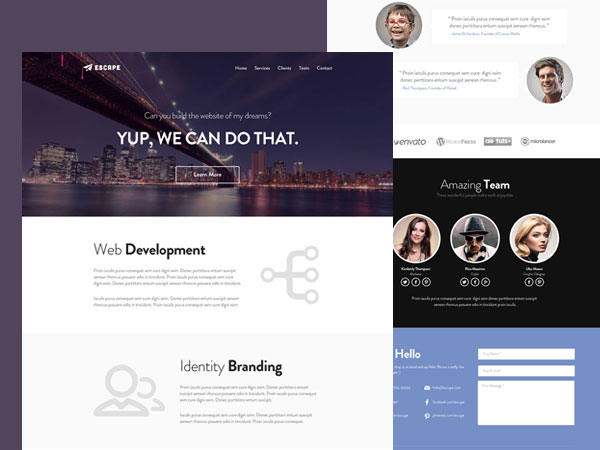
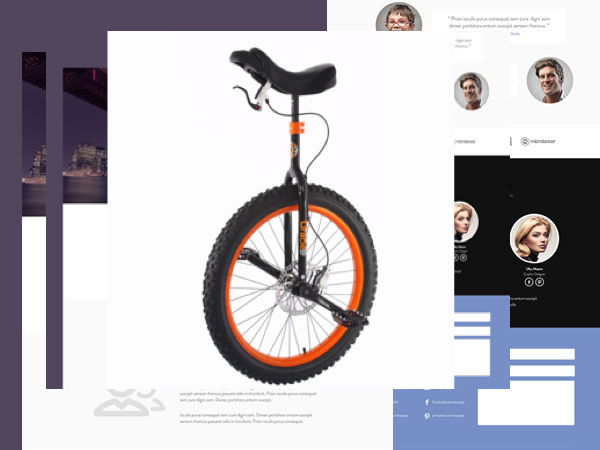
?

diff --git a/index.html b/index.html
@@ -230,8 +230,8 @@ threesome — http://howaboutathreeso.me/ (we fucking have to make this)</h3>
                         <img src="img/portfolio/escape.png" class="img-responsive" alt="">
                     </a>
                     <div class="portfolio-caption">
-                        <h4>Escape</h4>
-                        <p class="text-muted">Website Design</p>
+                        <h4>one wheel clown bike</h4>
+                        <p class="text-muted">revolutionizing the game</p>
                     </div>
                 </div>
                 <div class="col-md-4 col-sm-6 portfolio-item">
